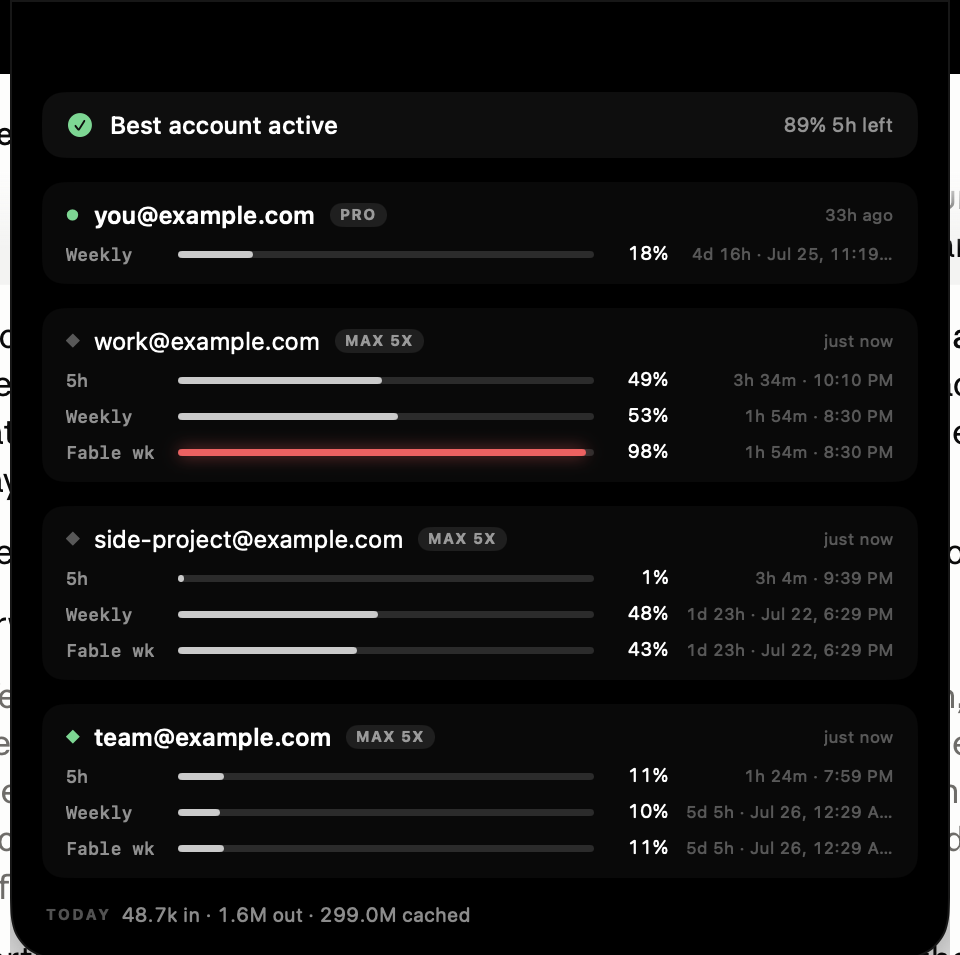
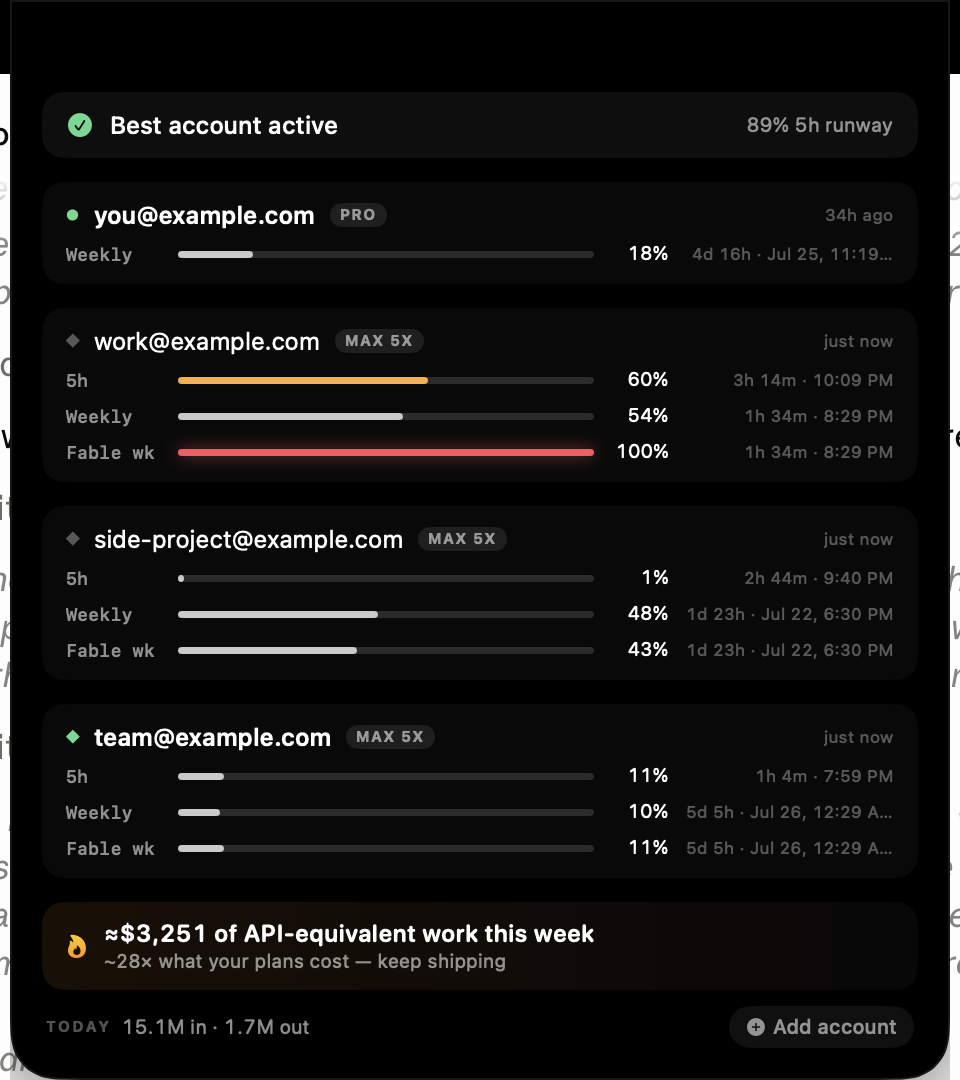
The scoreboard: API-equivalent value of your usage, framed to reward shipping
The mission is to get builders using every token they pay for, so the
dashboard now leads with value, not just consumption. Transcript scanning
prices each message by its model at published API list rates (cache writes
1.25x input, cache reads 0.1x) and buckets today + trailing 7 days in one
pass. A value strip shows the week's API-equivalent dollars and the multiple
of estimated plan spend; high headroom reads as 'runway'. README repositioned
around the same idea.

diff --git a/Sources/CCManager/TokenStats.swift b/Sources/CCManager/TokenStats.swift
@@ -1,9 +1,9 @@
 import Foundation
 
-/// Tokens consumed today, summed from Claude Code's local session transcripts
+/// Tokens consumed, summed from Claude Code's local session transcripts
 /// (~/.claude/projects/*/*.jsonl — each assistant message carries a `usage`
-/// block). This is machine-wide: transcripts don't record which account was
-/// active, so the numbers cover all Claude work on this Mac today.
+/// block and the model that served it). Machine-wide: transcripts don't record
+/// which account was active, so the numbers cover all Claude work on this Mac.
 ///
 /// Codex intentionally has no equivalent — its local logs carry no token
 /// counts, and inventing numbers would be worse than showing none.
@@ -11,6 +11,9 @@ struct TokenStats: Equatable {
     var inputTokens = 0
     var outputTokens = 0
     var cacheReadTokens = 0
+    /// What this usage would have cost on the pay-per-token API, in USD.
+    /// The number that turns a subscription from a cap into a deal.
+    var apiEquivalentDollars = 0.0
 
     var isEmpty: Bool { inputTokens == 0 && outputTokens == 0 && cacheReadTokens == 0 }
 
@@ -22,17 +25,30 @@ struct TokenStats: Equatable {
         }
     }
 
-    /// Sum today's usage. Reads only transcripts modified since local midnight,
-    /// so cost stays proportional to today's activity. Runs off the main
-    /// thread — call from a background task.
-    static func collectToday() -> TokenStats {
-        var stats = TokenStats()
+    static func formatDollars(_ d: Double) -> String {
+        if d >= 100 {
+            let f = NumberFormatter()
+            f.numberStyle = .decimal
+            f.maximumFractionDigits = 0
+            return "$" + (f.string(from: NSNumber(value: d)) ?? String(format: "%.0f", d))
+        }
+        return String(format: "$%.2f", d)
+    }
+
+    // MARK: - Collection
+
+    /// One pass over transcripts modified in the last 7 days, bucketing each
+    /// entry into today and this-week totals. Runs off the main thread.
+    static func collectWindows() -> (today: TokenStats, week: TokenStats) {
+        var today = TokenStats()
+        var week = TokenStats()
         let fm = FileManager.default
         let projects = fm.homeDirectoryForCurrentUser.appending(path: ".claude/projects")
         let midnight = Calendar.current.startOfDay(for: Date())
+        let weekAgo = Date().addingTimeInterval(-7 * 86_400)
 
         guard let dirs = try? fm.contentsOfDirectory(
-            at: projects, includingPropertiesForKeys: nil) else { return stats }
+            at: projects, includingPropertiesForKeys: nil) else { return (today, week) }
 
         for dir in dirs {
             guard let files = try? fm.contentsOfDirectory(
@@ -41,16 +57,20 @@ struct TokenStats: Equatable {
             for file in files where file.pathExtension == "jsonl" {
                 guard let mtime = try? file.resourceValues(
                         forKeys: [.contentModificationDateKey]).contentModificationDate,
-                      mtime >= midnight,
+                      mtime >= weekAgo,
                       let data = try? Data(contentsOf: file)
                 else { continue }
-                accumulate(from: data, since: midnight, into: &stats)
+                accumulate(from: data, weekCutoff: weekAgo, dayCutoff: midnight,
+                           week: &week, today: &today)
             }
         }
-        return stats
+        return (today, week)
     }
 
-    private static func accumulate(from data: Data, since cutoff: Date, into stats: inout TokenStats) {
+    private static func accumulate(
+        from data: Data, weekCutoff: Date, dayCutoff: Date,
+        week: inout TokenStats, today: inout TokenStats
+    ) {
         let iso = ISO8601DateFormatter()
         iso.formatOptions = [.withInternetDateTime, .withFractionalSeconds]
         // Transcripts are JSONL; split on newlines and parse only lines that
@@ -59,16 +79,58 @@ struct TokenStats: Equatable {
             guard line.count > 40,
                   line.firstRange(of: Data("\"usage\"".utf8)) != nil,
                   let obj = try? JSONSerialization.jsonObject(with: Data(line)) as? [String: Any],
-                  let usage = (obj["message"] as? [String: Any])?["usage"] as? [String: Any]
+                  let message = obj["message"] as? [String: Any],
+                  let usage = message["usage"] as? [String: Any]
             else { continue }
-            // Old lines can live in a today-modified file; filter by timestamp.
-            if let ts = obj["timestamp"] as? String,
-               let date = iso.date(from: ts) ?? ISO8601DateFormatter().date(from: ts),
-               date < cutoff { continue }
-            stats.inputTokens += (usage["input_tokens"] as? Int) ?? 0
-                + ((usage["cache_creation_input_tokens"] as? Int) ?? 0)
-            stats.outputTokens += (usage["output_tokens"] as? Int) ?? 0
-            stats.cacheReadTokens += (usage["cache_read_input_tokens"] as? Int) ?? 0
+            guard let ts = obj["timestamp"] as? String,
+                  let date = iso.date(from: ts) ?? ISO8601DateFormatter().date(from: ts),
+                  date >= weekCutoff
+            else { continue }
+
+            let input = (usage["input_tokens"] as? Int) ?? 0
+            let cacheWrite = (usage["cache_creation_input_tokens"] as? Int) ?? 0
+            let cacheRead = (usage["cache_read_input_tokens"] as? Int) ?? 0
+            let output = (usage["output_tokens"] as? Int) ?? 0
+            let dollars = cost(
+                model: message["model"] as? String ?? "",
+                input: input, cacheWrite: cacheWrite,
+                cacheRead: cacheRead, output: output)
+
+            week.add(input: input + cacheWrite, output: output,
+                     cacheRead: cacheRead, dollars: dollars)
+            if date >= dayCutoff {
+                today.add(input: input + cacheWrite, output: output,
+                          cacheRead: cacheRead, dollars: dollars)
+            }
         }
+    }
+
+    private mutating func add(input: Int, output: Int, cacheRead: Int, dollars: Double) {
+        inputTokens += input
+        outputTokens += output
+        cacheReadTokens += cacheRead
+        apiEquivalentDollars += dollars
+    }
+
+    // MARK: - Pricing
+
+    /// Published API list prices per million tokens, matched by model family.
+    /// Cache writes bill at 1.25× input, cache reads at 0.1× input.
+    private static func rates(for model: String) -> (input: Double, output: Double) {
+        let m = model.lowercased()
+        if m.contains("haiku") { return (1, 5) }
+        if m.contains("sonnet") { return (3, 15) }
+        // Opus, Fable, and unknown flagship models get flagship rates.
+        return (15, 75)
+    }
+
+    private static func cost(
+        model: String, input: Int, cacheWrite: Int, cacheRead: Int, output: Int
+    ) -> Double {
+        let r = rates(for: model)
+        return (Double(input) * r.input
+                + Double(cacheWrite) * r.input * 1.25
+                + Double(cacheRead) * r.input * 0.1
+                + Double(output) * r.output) / 1_000_000
     }
 }

diff --git a/Sources/CCManager/NotchView.swift b/Sources/CCManager/NotchView.swift
@@ -316,7 +316,10 @@ private struct FullDashboard: View {
                 .foregroundStyle(Ink.primary)
             Spacer()
             if let w = rec.shortWindow ?? rec.longWindow {
-                Text("\(Int(w.remainingPercent))% \(w.label) left")
+                // Frame headroom as runway, not just a number.
+                Text(w.remainingPercent >= 70
+                     ? "\(Int(w.remainingPercent))% \(w.label) runway"
+                     : "\(Int(w.remainingPercent))% \(w.label) left")
                     .font(.system(size: 10, design: .rounded))
                     .foregroundStyle(Ink.secondary)
                     .monospacedDigit()
@@ -360,23 +363,69 @@ private struct FullDashboard: View {
             }
             .padding(.horizontal, 2)
         } else {
-            HStack(spacing: 5) {
-                if !manager.todayTokens.isEmpty {
-                    Text("TODAY")
-                        .font(.system(size: 7.5, weight: .bold))
-                        .foregroundStyle(Ink.tertiary)
-                        .kerning(1.1)
-                    Text("\(TokenStats.formatCount(manager.todayTokens.inputTokens)) in · "
-                         + "\(TokenStats.formatCount(manager.todayTokens.outputTokens)) out")
-                        .font(.system(size: 10, design: .rounded))
-                        .foregroundStyle(Ink.secondary)
-                        .monospacedDigit()
+            VStack(alignment: .leading, spacing: 8) {
+                if !manager.weekTokens.isEmpty {
+                    ValueStrip(manager: manager)
                 }
-                Spacer()
-                AddAccountMenu(manager: manager)
+                HStack(spacing: 5) {
+                    if !manager.todayTokens.isEmpty {
+                        Text("TODAY")
+                            .font(.system(size: 7.5, weight: .bold))
+                            .foregroundStyle(Ink.tertiary)
+                            .kerning(1.1)
+                        Text("\(TokenStats.formatCount(manager.todayTokens.inputTokens)) in · "
+                             + "\(TokenStats.formatCount(manager.todayTokens.outputTokens)) out")
+                            .font(.system(size: 10, design: .rounded))
+                            .foregroundStyle(Ink.secondary)
+                            .monospacedDigit()
+                    }
+                    Spacer()
+                    AddAccountMenu(manager: manager)
+                }
+                .padding(.horizontal, 2)
             }
-            .padding(.horizontal, 2)
         }
+    }
+}
+
+/// The number that reframes a subscription from a cap into a deal: what this
+/// week's usage would have cost on the pay-per-token API, and the multiple of
+/// what the plans actually cost. Subscriptions reward shipping — this line is
+/// the scoreboard.
+private struct ValueStrip: View {
+    @ObservedObject var manager: AccountManager
+
+    var body: some View {
+        let today = manager.todayTokens.apiEquivalentDollars
+        let week = manager.weekTokens.apiEquivalentDollars
+        let spend = manager.weeklyPlanSpend
+        let multiple = spend > 0 ? week / spend : 0
+
+        HStack(spacing: 8) {
+            Image(systemName: "flame.fill")
+                .font(.system(size: 11))
+                .foregroundStyle(
+                    LinearGradient(colors: [.orange, .yellow],
+                                   startPoint: .bottom, endPoint: .top))
+            VStack(alignment: .leading, spacing: 1) {
+                Text("≈\(TokenStats.formatDollars(week)) of API-equivalent work this week")
+                    .font(.system(size: 12, weight: .semibold, design: .rounded))
+                    .foregroundStyle(Ink.primary)
+                    .monospacedDigit()
+                Text(multiple >= 1.5
+                     ? "~\(Int(multiple.rounded()))× what your plans cost — keep shipping"
+                     : "today ≈\(TokenStats.formatDollars(today)) · estimated at API list prices")
+                    .font(.system(size: 9.5))
+                    .foregroundStyle(Ink.secondary)
+                    .monospacedDigit()
+            }
+            Spacer()
+        }
+        .padding(.horizontal, 12).padding(.vertical, 8)
+        .background(RoundedRectangle(cornerRadius: 11, style: .continuous)
+            .fill(LinearGradient(
+                colors: [.orange.opacity(0.10), .white.opacity(0.03)],
+                startPoint: .leading, endPoint: .trailing)))
     }
 }
 

diff --git a/Sources/CCManager/AccountManager.swift b/Sources/CCManager/AccountManager.swift
@@ -14,8 +14,9 @@ final class AccountManager: ObservableObject {
     private var lastClaudePoll: Date?
     private var claudePollInFlight = false
 
-    /// Tokens burned today (Claude, machine-wide from local transcripts).
+    /// Tokens burned (Claude, machine-wide from local transcripts).
     @Published private(set) var todayTokens = TokenStats()
+    @Published private(set) var weekTokens = TokenStats()
     private var lastTokenScan: Date?
     private var tokenScanInFlight = false
 
@@ -44,8 +45,8 @@ final class AccountManager: ObservableObject {
         else { return }
         tokenScanInFlight = true
         Task.detached(priority: .utility) { [weak self] in
-            let stats = TokenStats.collectToday()
-            await self?.applyTokenStats(stats)
+            let windows = TokenStats.collectWindows()
+            await self?.applyTokenStats(windows.today, week: windows.week)
         }
     }
 
@@ -57,8 +58,30 @@ final class AccountManager: ObservableObject {
         }
     }
 
-    private func applyTokenStats(_ stats: TokenStats) {
+    /// Rough weekly subscription spend across all visible accounts, from list
+    /// prices by plan tier. Used to frame API-equivalent value as a multiple.
+    var weeklyPlanSpend: Double {
+        let monthly = accounts.reduce(0.0) { sum, a in
+            guard a.headroom != nil || a.isActive else { return sum }
+            let plan = (a.plan ?? "").lowercased()
+            switch a.provider {
+            case .claude:
+                if plan.contains("20x") { return sum + 200 }
+                if plan.contains("max") { return sum + 100 }
+                if plan.contains("pro") { return sum + 20 }
+                return sum
+            case .codex:
+                if plan.contains("pro") { return sum + 200 }
+                if plan.contains("plus") { return sum + 20 }
+                return sum
+            }
+        }
+        return monthly * 12 / 52
+    }
+
+    private func applyTokenStats(_ stats: TokenStats, week: TokenStats) {
         todayTokens = stats
+        weekTokens = week
         lastTokenScan = Date()
         tokenScanInFlight = false
     }

diff --git a/Sources/CCManager/Diagnostics.swift b/Sources/CCManager/Diagnostics.swift
@@ -39,10 +39,14 @@ enum Diagnostics {
         }
         print("  profiles: \(ClaudeProvider.listProfiles())")
 
-        let t = TokenStats.collectToday()
-        print("\n[Tokens today] in: \(TokenStats.formatCount(t.inputTokens))"
-              + "  out: \(TokenStats.formatCount(t.outputTokens))"
-              + "  cacheRead: \(TokenStats.formatCount(t.cacheReadTokens))")
+        let w = TokenStats.collectWindows()
+        print("\n[Tokens today] in: \(TokenStats.formatCount(w.today.inputTokens))"
+              + "  out: \(TokenStats.formatCount(w.today.outputTokens))"
+              + "  cacheRead: \(TokenStats.formatCount(w.today.cacheReadTokens))"
+              + "  ≈\(TokenStats.formatDollars(w.today.apiEquivalentDollars)) API-equivalent")
+        print("[Tokens 7d]    in: \(TokenStats.formatCount(w.week.inputTokens))"
+              + "  out: \(TokenStats.formatCount(w.week.outputTokens))"
+              + "  ≈\(TokenStats.formatDollars(w.week.apiEquivalentDollars)) API-equivalent")
     }
 }
 

diff --git a/README.md b/README.md
@@ -1,8 +1,8 @@
 # Notch Limits
 
-**See every Claude Code and Codex subscription's usage limits at a glance — living in your Mac's notch.**
+**Use every token you pay for. Your Claude Code and Codex limits, living in your Mac's notch.**
 
-If you pay for more than one Claude or Codex plan, you have no way to know which one has headroom left. This puts all of them in one place: 5-hour windows, weekly windows, per-model caps, reset times, and a recommendation for which account to use next.
+A subscription rewards shipping: every window that resets with headroom left is work you paid for and didn't do. Notch Limits puts all your accounts in one place — 5-hour windows, weekly windows, per-model caps, reset times, which account to use next — and shows what your usage would have cost at API list prices, so you can see the deal you're getting and run it hot.
 
 ![The full dashboard](docs/dashboard.png)
 
@@ -15,12 +15,13 @@ Hover the notch and it opens. Move away and it disappears back into the hardware
 
 ## What it does
 
+- **The scoreboard.** ≈API-equivalent dollars for today and the week, next to a rough multiple of what your plans cost. `~28× what your plans cost — keep shipping` beats any streak widget.
 - **All your accounts, live.** Every Claude account you add is polled independently, so you see everyone's limits at once — not just the one you're currently signed into.
 - **The limits you didn't know you had.** Claude enforces per-model weekly caps separate from your overall weekly. It's routine to sit at 50% overall while one model is at 98% and about to lock you out. Those get their own bar.
 - **Reset times, not just percentages.** Every window shows a countdown *and* the wall-clock moment it resets (`2h 5m · 8:30 PM`).
 - **Which account to use next.** A recommendation ranked by remaining headroom across every account.
 - **One-click Codex account switching**, with automatic backups.
-- **Today's token usage**, summed from local Claude Code transcripts.
+- **Today's token usage**, summed from local Claude Code transcripts, priced per model at published API rates (cache writes at 1.25×, cache reads at 0.1×).
 
 ## Install
 